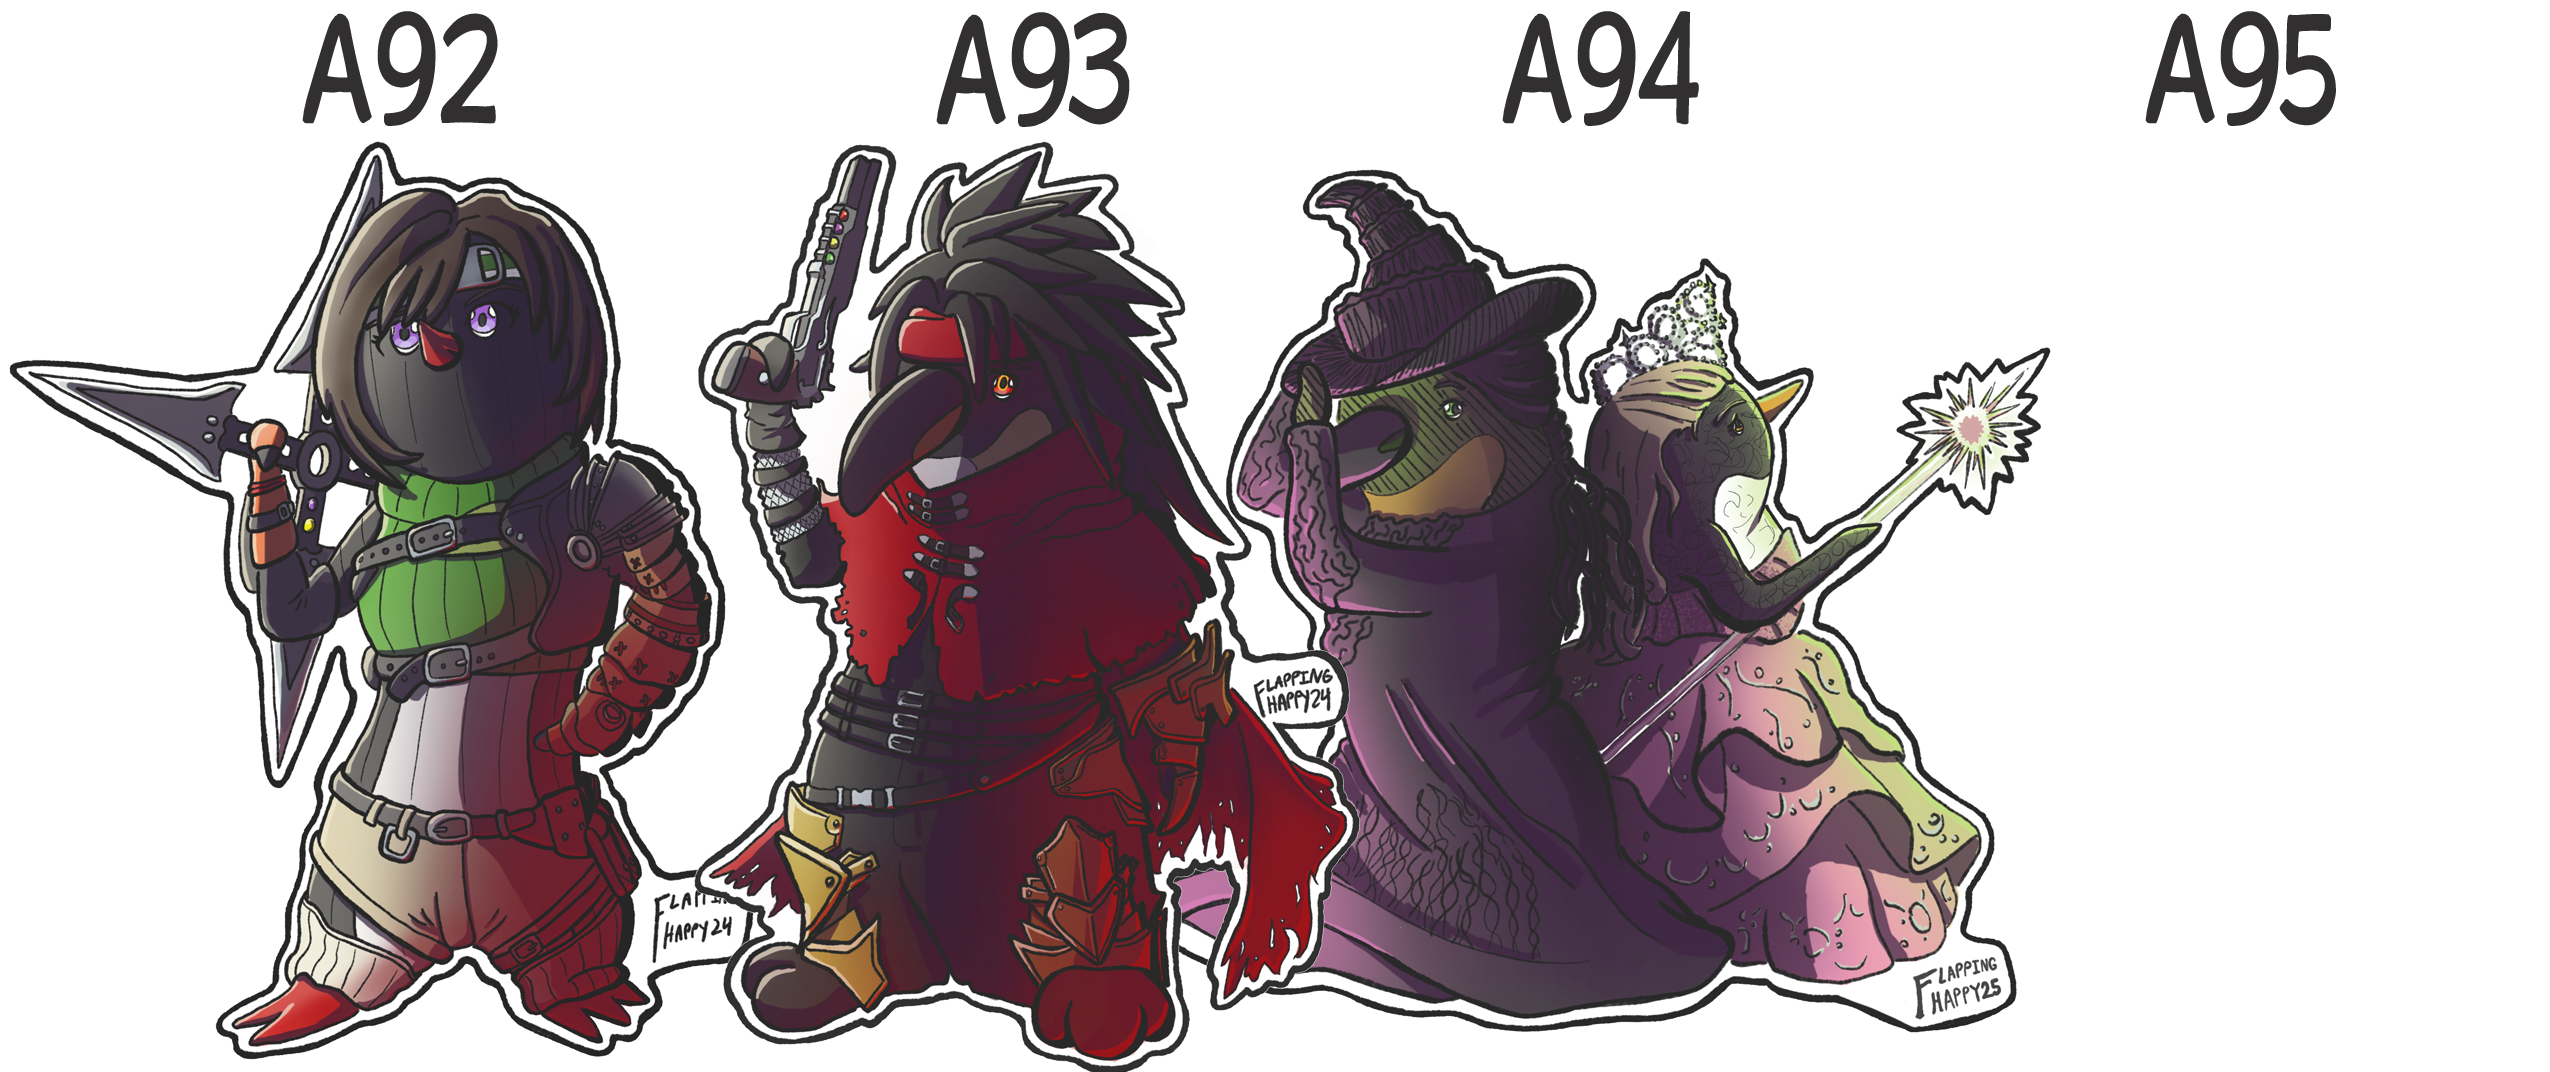
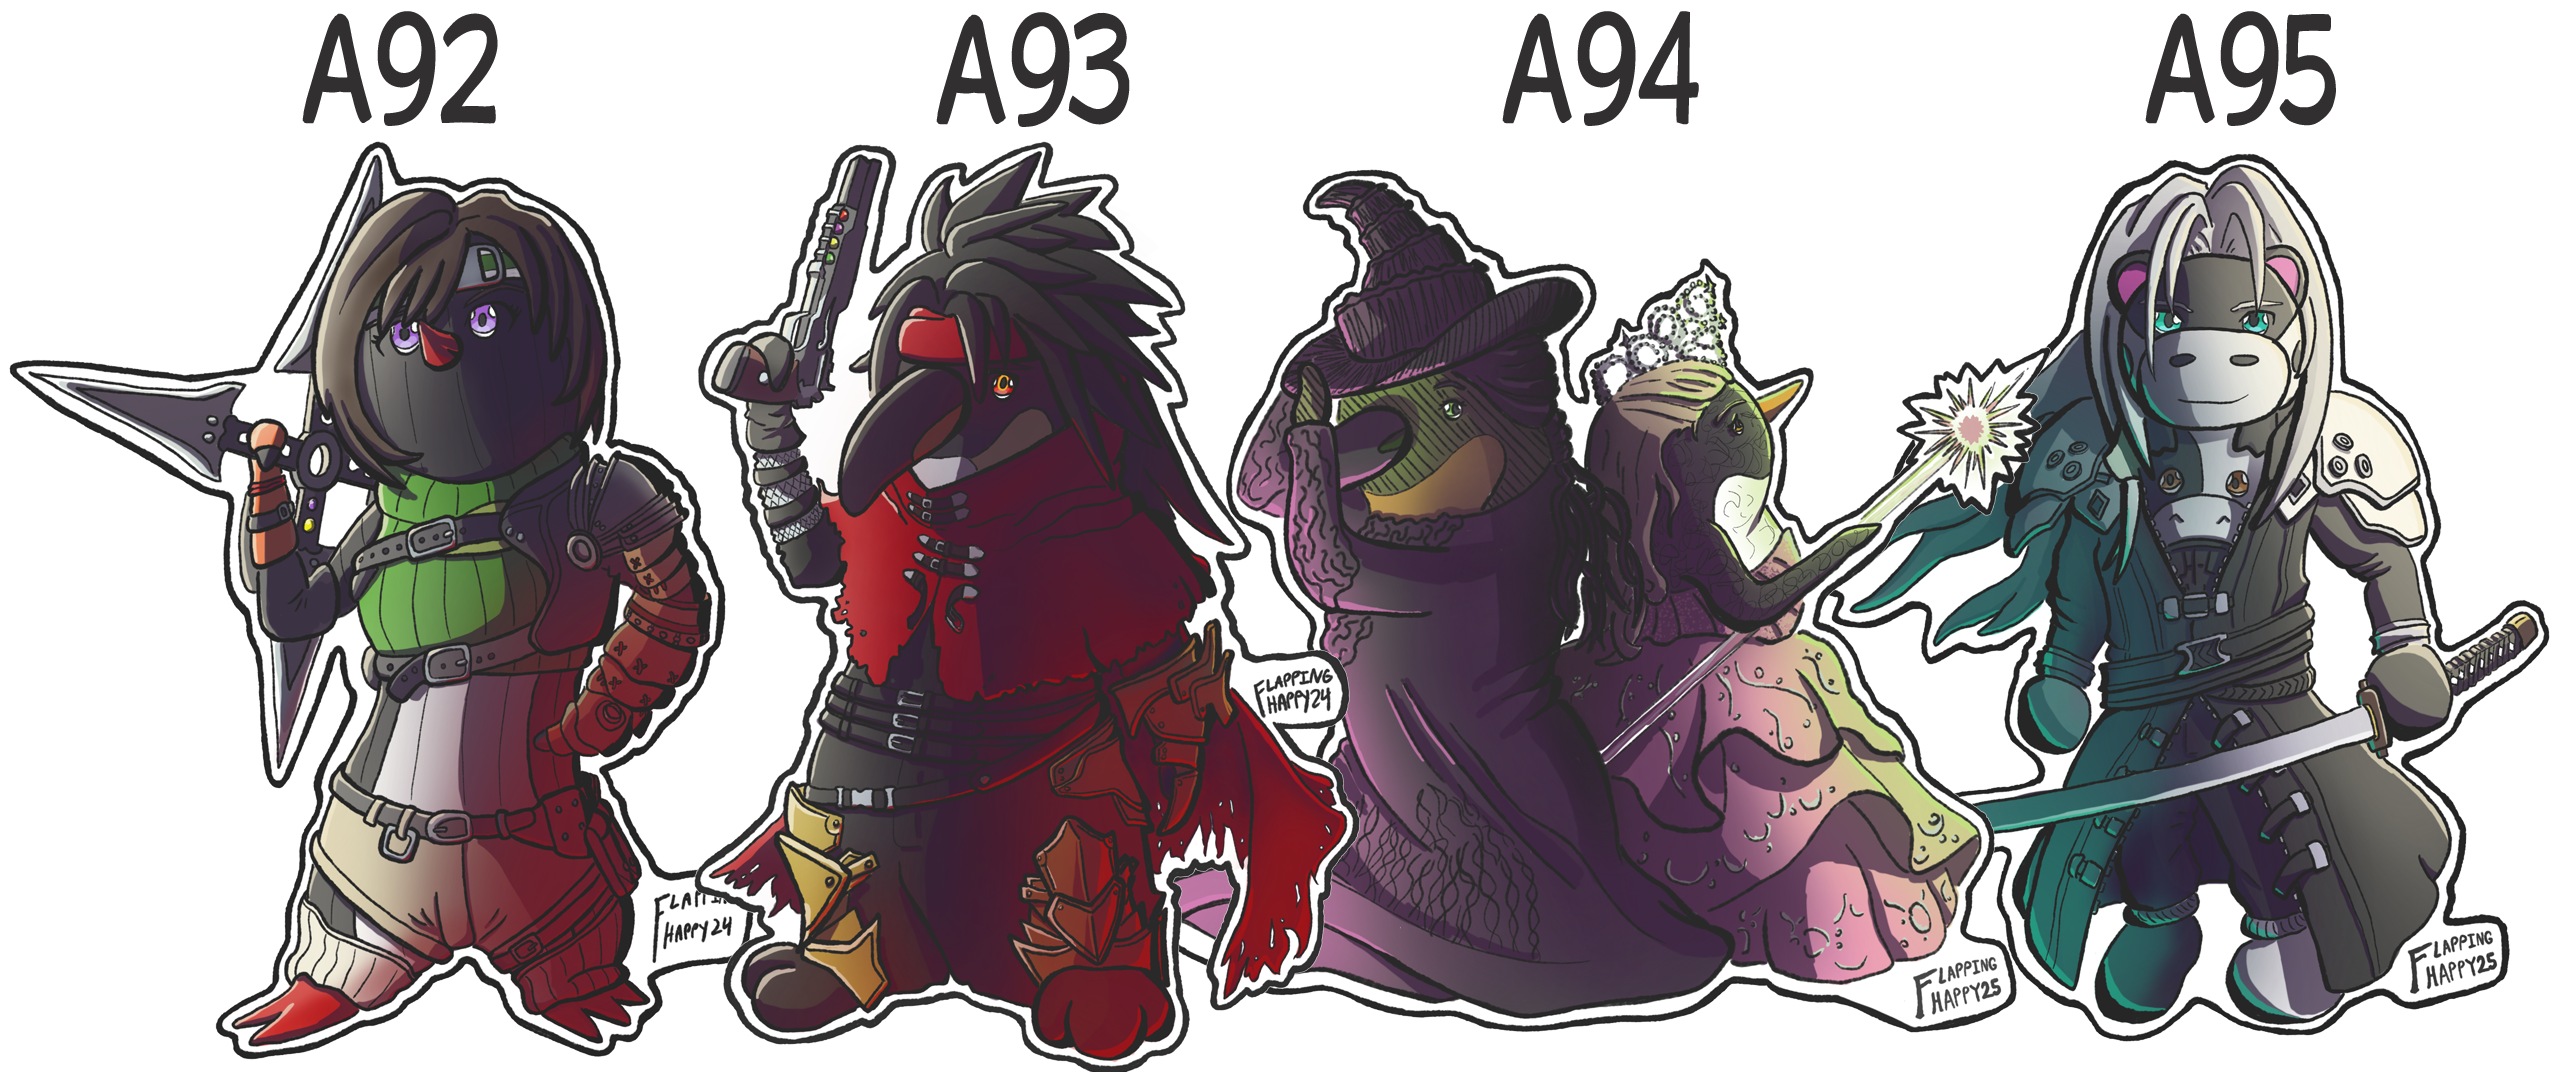
Add files via upload

Changed region(s): [[0.7125, 0.1231, 1.0, 0.9851]]

diff --git a/shop.html b/shop.html
@@ -187,6 +187,7 @@
 						<option value="A092">A92</option>
 						<option value="A093">A93</option>
 						<option value="A094">A94</option>
+						<option value="A095">A95</option>
 					</select>
 					<br><br>
 					<button id="printArtBtn" name="PrintArt" class="formBtn"  value="PrintArt">Add to Cart</button>
@@ -359,6 +360,7 @@
 						<option value="A092">A92</option>
 						<option value="A093">A93</option>
 						<option value="A094">A94</option>
+						<option value="A095">A95</option>
 						<option value="S001">S1</option>
 						<option value="S002">S2</option>
 						<option value="S003">S3</option>
@@ -513,6 +515,7 @@
 						<option value="A092">A92</option>
 						<option value="A093">A93</option>
 						<option value="A094">A94</option>
+						<option value="A095">A95</option>
 						
 					</select>
 					<br><br>
